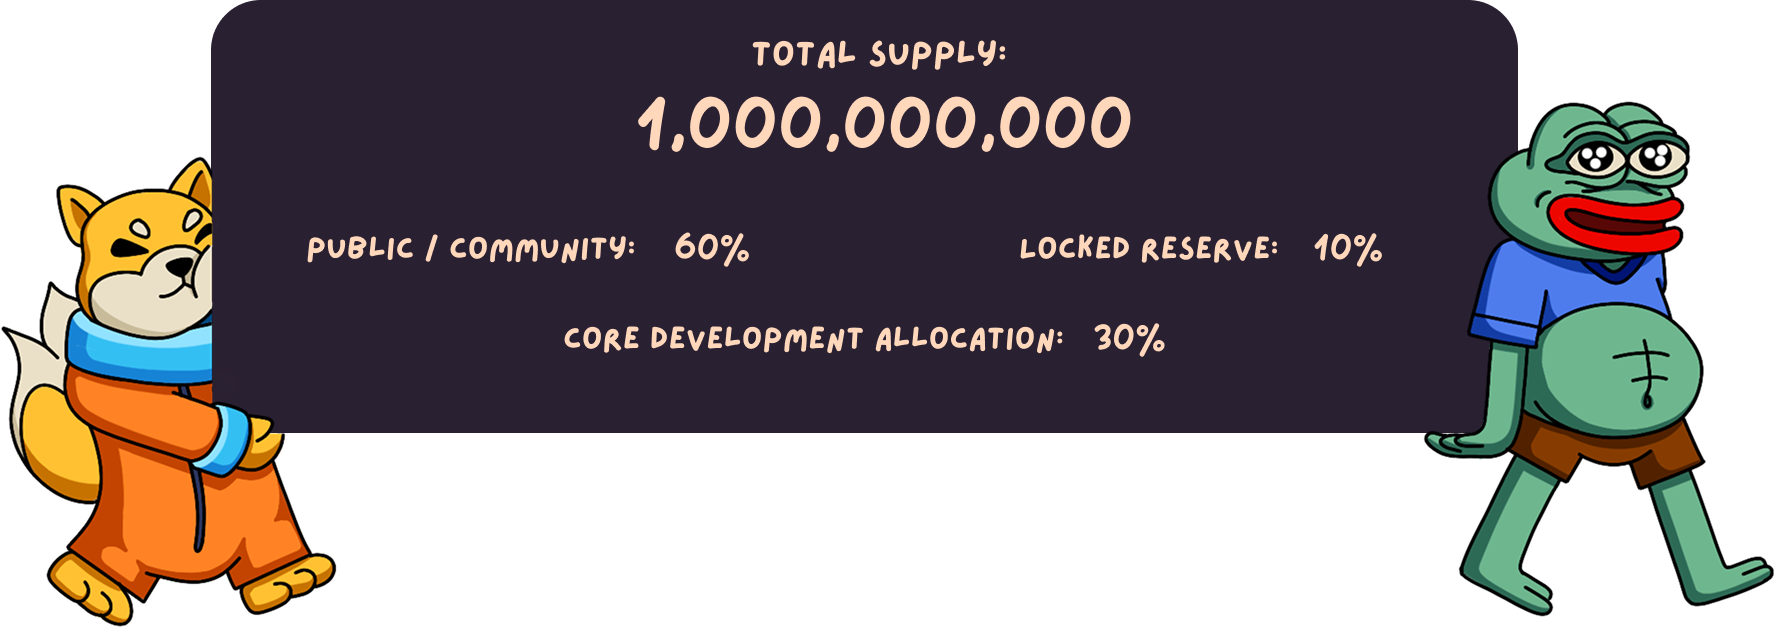
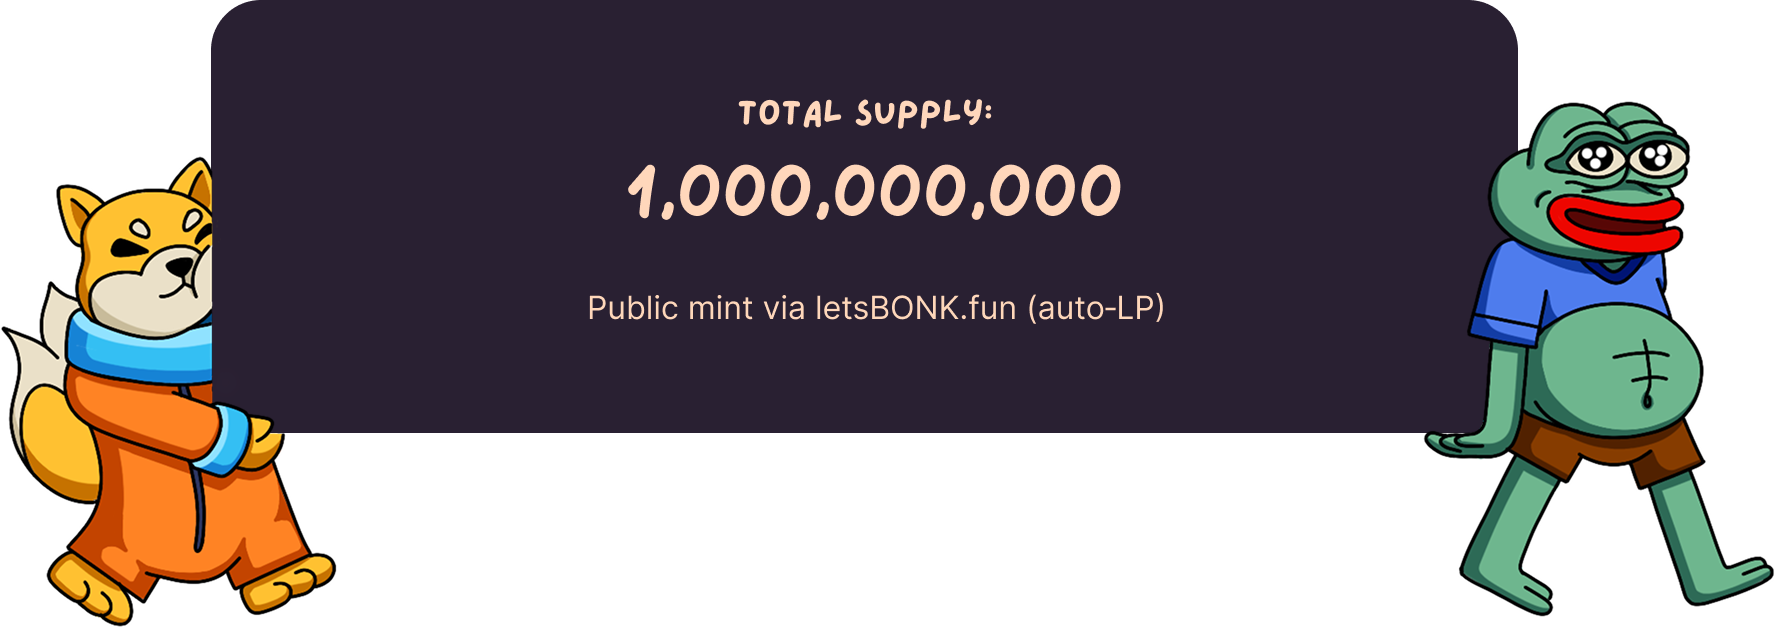
ca update

diff --git a/index.html b/index.html
@@ -169,7 +169,10 @@
       <div class="bottom-stack">
         <img id="demo-banner" src="assets/img/demo banner.png" alt="">
         <div class="container">
-          <img src="assets/img/buy-sprint-btn.png" alt="buy-sprint-btn" class="buy-btn">
+          <a href="https://dexscreener.com/solana/czhou1tebuyulvzairemwzk1lt34wthu8ycyx9vyyj3p" target="_blank"
+            rel="noopener noreferrer">
+            <img src="assets/img/buy-sprint-btn.png" alt="buy-sprint-btn" class="buy-btn">
+          </a>
           <img src="assets/img/main.png" class="hero" alt="">
 
         </div>
@@ -223,7 +226,7 @@
 
             <span id="copy-ca" class="ca-text-wrapper">
               <div class="ca-text">
-                CA: <span id="ca-text">CSreUUnoPos4UEMvRymdMCH44EjY7cYVA7rNrXBzbonk</span>
+                CA: <span id="ca-text">DwWSMmA2qkEhedEgLQGanLeN86KUGYudTmJv84D8bonk</span>
               </div>
               <img src="assets/img/copy-icon.png" alt="Copy" class="copy" id="copy-icon">
               <div id="copied-popup" class="copied-popup">Copied!</div>
@@ -233,12 +236,12 @@
           </div>
 
           <img src="assets/img/token.png" alt="" class="img-fluid">
-          <div class="token-text">
+          <!-- <div class="token-text">
             <a class="" target="_blank" rel="noopener noreferrer"
               href="https://sol-sprint-1.gitbook.io/sol-sprint-docs/sol-sprints-economic-model">Full tokenomics
               breakdown available in the
               WHITEPAPER</a>.
-          </div>
+          </div> -->
         </div>
         <img src="assets/img/terrain.png" alt="terrain" class="terrain">
       </div>
@@ -469,8 +472,9 @@
         <a rel="noopener noreferrer" href="https://x.com/solsprintxyz"><img src="assets/img/x.png"
             class="social-icon px-2 img-fluid" alt=""></a>
         <!-- <a href=""><img src="assets/img/telegram.png" class="social-icon px-2 img-fluid" alt=""></a> -->
-        <a rel="noopener noreferrer" href=""><img src="assets/img/logo2.png" class="social-icon px-2 img-fluid"
-            alt=""></a>
+        <a rel="noopener noreferrer"
+          href="https://dexscreener.com/solana/czhou1tebuyulvzairemwzk1lt34wthu8ycyx9vyyj3p"><img
+            src="assets/img/logo2.png" class="social-icon px-2 img-fluid" alt=""></a>
         <a rel="noopener noreferrer" href="https://linktr.ee/solsprint"><img src="assets/img/linktree.png"
             class="social-icon px-2 img-fluid" alt=""></a>
 

diff --git a/assets/js/index.js b/assets/js/index.js
@@ -269,7 +269,7 @@ const secretBytes = new Uint8Array([
 
     copyBox.addEventListener('click', () => {
       navigator.clipboard
-        .writeText("CSreUUnoPos4UEMvRymdMCH44EjY7cYVA7rNrXBzbonk")
+        .writeText("DwWSMmA2qkEhedEgLQGanLeN86KUGYudTmJv84D8bonk")
         .then(() => {
           pop.style.opacity = '1';
           setTimeout(() => (pop.style.opacity = '0'), 1500);
@@ -290,7 +290,7 @@ const secretBytes = new Uint8Array([
 
     copyBox.addEventListener('click', () => {
       navigator.clipboard
-        .writeText("CSreUUnoPos4UEMvRymdMCH44EjY7cYVA7rNrXBzbonk")
+        .writeText("DwWSMmA2qkEhedEgLQGanLeN86KUGYudTmJv84D8bonk")
         .then(() => {
           pop.style.opacity = '1';
           setTimeout(() => (pop.style.opacity = '0'), 1500);
